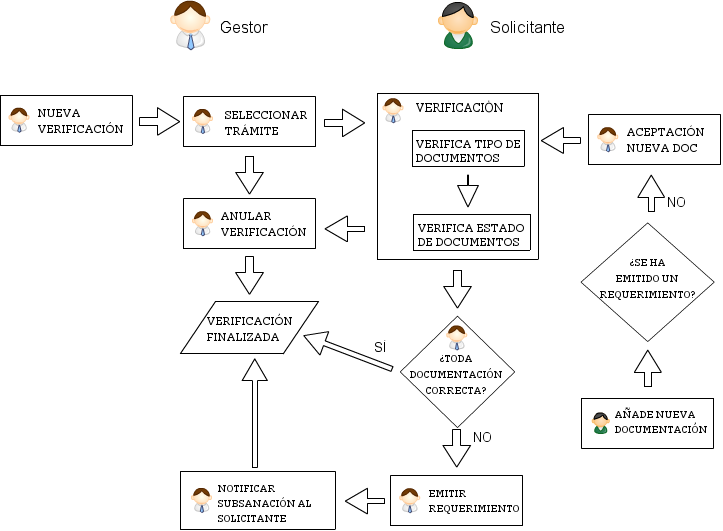
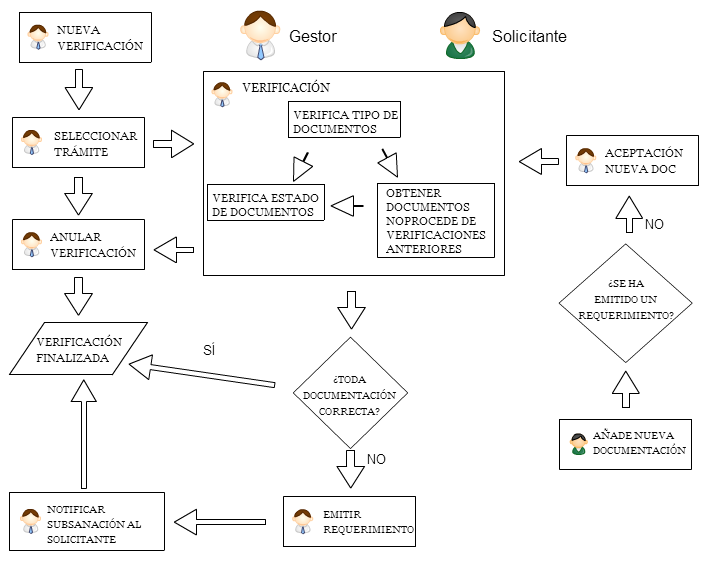
+ Verificacion: Se permite recuperar documentos NoProcede de verificaciones anteriores

diff --git a/fap/app/controllers/PaginaVerificacionController.java b/fap/app/controllers/PaginaVerificacionController.java
@@ -4,6 +4,9 @@ import java.io.File;
 import java.io.FileInputStream;
 import java.io.InputStream;
 import java.util.ArrayList;
+import java.util.Collections;
+import java.util.Comparator;
+import java.util.HashMap;
 import java.util.List;
 import java.util.Map;
 
@@ -56,6 +59,7 @@ import enumerado.fap.gen.EstadosSolicitudEnum;
 import enumerado.fap.gen.EstadosVerificacionEnum;
 import es.gobcan.eadmon.verificacion.ws.dominio.DocumentoVerificacion;
 import es.gobcan.platino.servicios.enotificacion.notificacion.NotificacionException;
+import es.gobcan.platino.servicios.registro.Documentos;
 
 public class PaginaVerificacionController extends PaginaVerificacionControllerGen {
 	
@@ -172,7 +176,7 @@ public class PaginaVerificacionController extends PaginaVerificacionControllerGe
 				play.Logger.error("Error recuperando los documentos nuevos a verificar", e.getMessage());
 			}
 
-			dbSolicitud.verificacion.estado = EstadosVerificacionEnum.enVerificacion.name();
+			dbSolicitud.verificacion.estado = EstadosVerificacionEnum.obtenerNoProcede.name();
 			dbSolicitud.verificacion.nuevosDocumentos.clear();
 			dbSolicitud.verificacion.verificacionTiposDocumentos.clear();
 			dbSolicitud.verificacion.fechaUltimaActualizacion = new DateTime();
@@ -206,7 +210,8 @@ public class PaginaVerificacionController extends PaginaVerificacionControllerGe
 				vDoc.save();
 				dbSolicitud.verificacion.documentos.add(vDoc);
 			}
-			dbSolicitud.verificacion.estado = EstadosVerificacionEnum.enVerificacion.name();
+			
+			dbSolicitud.verificacion.estado = EstadosVerificacionEnum.obtenerNoProcede.name();
 			dbSolicitud.verificacion.nuevosDocumentos.clear();
 			dbSolicitud.verificacion.verificacionTiposDocumentos.clear();
 			dbSolicitud.verificacion.fechaUltimaActualizacion = new DateTime();
@@ -698,4 +703,66 @@ public class PaginaVerificacionController extends PaginaVerificacionControllerGe
 		PaginaVerificacionController.anularVerificacionRender(idSolicitud, idVerificacion);
 	}
 	
+	@Util
+	public static void obtenerNoProcede(Long idSolicitud, Long idVerificacion){
+		//Debe extraer los documentos clasificados como no procede en verificaciones anteriores
+		//todas las verificaciones de la solicitud
+		SolicitudGenerica solicitud = SolicitudGenerica.findById(idSolicitud);
+		List<Verificacion> verificaciones = solicitud.verificaciones;
+		Map<String, VerificacionDocumento> docsnp = new HashMap<String, VerificacionDocumento>();		
+		
+		for (Verificacion verif : verificaciones) {
+			List<VerificacionDocumento> documentos = verif.documentos;
+			
+			for (VerificacionDocumento doc : documentos) {
+				//Si estado es noProcede, existe y no está ya en la lista -> Añadir
+				if ((doc.estadoDocumentoVerificacion.equals(EstadosDocumentoVerificacionEnum.noProcede.name())) && (doc.existe) && (!docsnp.containsKey(doc.uriDocumento))){
+					docsnp.put(doc.uriDocumento, new VerificacionDocumento(doc));
+				}
+				//Si está en lista, existe, el estado es distinto de noProcede y fecha posterior al almacenado
+				else if ((!doc.estadoDocumentoVerificacion.equals(EstadosDocumentoVerificacionEnum.noProcede.name())) && (doc.existe) && (docsnp.containsKey(doc.uriDocumento))){
+					docsnp.remove(doc.uriDocumento);
+				}
+			}
+		}
+		Verificacion verificacion = Verificacion.findById(idVerificacion);
+		verificacion.documentos.addAll(docsnp.values());
+		verificacion.estado = EstadosVerificacionEnum.enVerificacion.name();
+		verificacion.save();
+	}
+	
+	@Util
+	// Este @Util es necesario porque en determinadas circunstancias crear(..) llama a editar(..).
+	public static void frmtiposProceso(Long idSolicitud, Long idVerificacion, String obtenerNoProcede) {
+		checkAuthenticity();
+		if (!permisoFrmtiposProceso("editar")) {
+			Messages.error("No tiene permisos suficientes para realizar la acción");
+		}
+
+		if (!Messages.hasErrors()) {
+			obtenerNoProcede(idSolicitud, idVerificacion);
+		}
+
+		if (!Messages.hasErrors()) {
+			PaginaVerificacionController.frmtiposProcesoValidateRules();
+		}
+		if (!Messages.hasErrors()) {
+
+			log.info("Acción Editar de página: " + "gen/PaginaVerificacion/PaginaVerificacion.html" + " , intentada con éxito");
+		} else
+			log.info("Acción Editar de página: " + "gen/PaginaVerificacion/PaginaVerificacion.html" + " , intentada sin éxito (Problemas de Validación)");
+		PaginaVerificacionController.frmtiposProcesoRender(idSolicitud, idVerificacion);
+	}
+	
+
+	public static void tablaverificacionDocumentos(Long idSolicitud) {
+		SolicitudGenerica solicitud = SolicitudGenerica.findById(idSolicitud);
+		java.util.List<VerificacionDocumento> rows = solicitud.verificacion.documentos;
+		Map<String, Long> ids = (Map<String, Long>) tags.TagMapStack.top("idParams");
+		List<VerificacionDocumento> rowsFiltered = rows; //Tabla sin permisos, no filtra
+
+		tables.TableRenderResponse<VerificacionDocumento> response = new tables.TableRenderResponse<VerificacionDocumento>(rowsFiltered, false, false, false, "", "", "", getAccion(), ids);
+
+		renderJSON(response.toJSON("fechaPresentacion", "descripcion", "nombreTipoDocumento", "estadoDocumentoVerificacion", "identificadorMultiple", "linkUrlDescarga", "id"));
+	}
 }

diff --git a/apps/test/app/tramitacion/TramiteFirmaDoble.java b/apps/test/app/tramitacion/TramiteFirmaDoble.java
@@ -31,9 +31,6 @@ public class TramiteFirmaDoble extends TramiteAplicacion{
 
 	private final static String BODY_REPORT = "reports/bodyMultiplesFirmantes.html";
 	
-	@Inject
-	private static FirmaService firmaService = InjectorConfig.getInjector().getInstance(FirmaService.class);
-	
 	public TramiteFirmaDoble(SolicitudGenerica solicitud) {
 		super(solicitud);
 	}
@@ -78,8 +75,10 @@ public class TramiteFirmaDoble extends TramiteAplicacion{
             
             //Nuevos firmantes dependientes de mi trámite que quiero añadir
             Solicitud misolicitud = (Solicitud)this.solicitud;
-            Firmante firmanteExtra = new Firmante(misolicitud.personaDirector, "unico");
-    		registro.firmantes.todos.add(firmanteExtra);
+            if (misolicitud.personaDirector.numeroId != null){
+	            Firmante firmanteExtra = new Firmante(misolicitud.personaDirector, "unico");
+	    		registro.firmantes.todos.add(firmanteExtra);
+            }
         }
     }
     

diff --git a/apps/test/app/controllers/fap/DobleFirmaPresentacionFapController.java b/apps/test/app/controllers/fap/DobleFirmaPresentacionFapController.java
@@ -1,15 +1,16 @@
 package controllers.fap;
 
 import models.SolicitudGenerica;
+//Descomentar para emplear el ejemplo de firma doble
 import tramitacion.TramiteFirmaDoble;
 import tramitacion.TramiteBase;
-
+/*
 public class DobleFirmaPresentacionFapController extends PresentacionFapController{
 	
+	
 	public static TramiteBase getTramiteObject (Long idSolicitud){
-		System.out.println("Devolviendo la solicitud");
 		SolicitudGenerica solicitud = SolicitudGenerica.findById(idSolicitud);
 		return new TramiteFirmaDoble(solicitud);
 	}
 
-}
+}*/

diff --git a/fap/app/tramitacion/TramiteSolicitudFap.java b/fap/app/tramitacion/TramiteSolicitudFap.java
@@ -12,6 +12,7 @@ import models.Convocatoria;
 import models.Documento;
 import models.DocumentoExterno;
 import models.Firmante;
+import models.Firmantes;
 import models.Registro;
 import models.SolicitudGenerica;
 import services.VerificarDocumentacionService;
@@ -144,7 +145,7 @@ public class TramiteSolicitudFap extends TramiteSolicitud {
 	@Override
 	public boolean hanFirmadoTodos() {
 		// TODO Auto-generated method stub
-		return false;
+		return registro.firmantes.hanFirmadoTodos();
 	}
 
 }

diff --git a/fap/app/tramitacion/TramiteDesistimiento.java b/fap/app/tramitacion/TramiteDesistimiento.java
@@ -9,6 +9,7 @@ import services.RegistroServiceException;
 
 import models.Documento;
 import models.DocumentoExterno;
+import models.Firmantes;
 import models.Registro;
 import models.SolicitudGenerica;
 
@@ -119,8 +120,7 @@ public class TramiteDesistimiento extends TramiteBase {
 
 	@Override
 	public boolean hanFirmadoTodos() {
-		// TODO Auto-generated method stub
-		return false;
+		return registro.firmantes.hanFirmadoTodos();
 	}
 	
 	

diff --git a/fap/app/tramitacion/TramiteAceptacionRenuncia.java b/fap/app/tramitacion/TramiteAceptacionRenuncia.java
@@ -233,7 +233,7 @@ public class TramiteAceptacionRenuncia extends TramiteBase {
 	@Override
 	public boolean hanFirmadoTodos() {
 		// TODO Auto-generated method stub
-		return false;
+		return registro.firmantes.hanFirmadoTodos();
 	}
 	
 

diff --git a/fap/app/tramitacion/TramiteAlegacion.java b/fap/app/tramitacion/TramiteAlegacion.java
@@ -170,7 +170,7 @@ public class TramiteAlegacion extends TramiteBase {
 	@Override
 	public boolean hanFirmadoTodos() {
 		// TODO Auto-generated method stub
-		return false;
+		return registro.firmantes.hanFirmadoTodos();
 	}
 
 }
